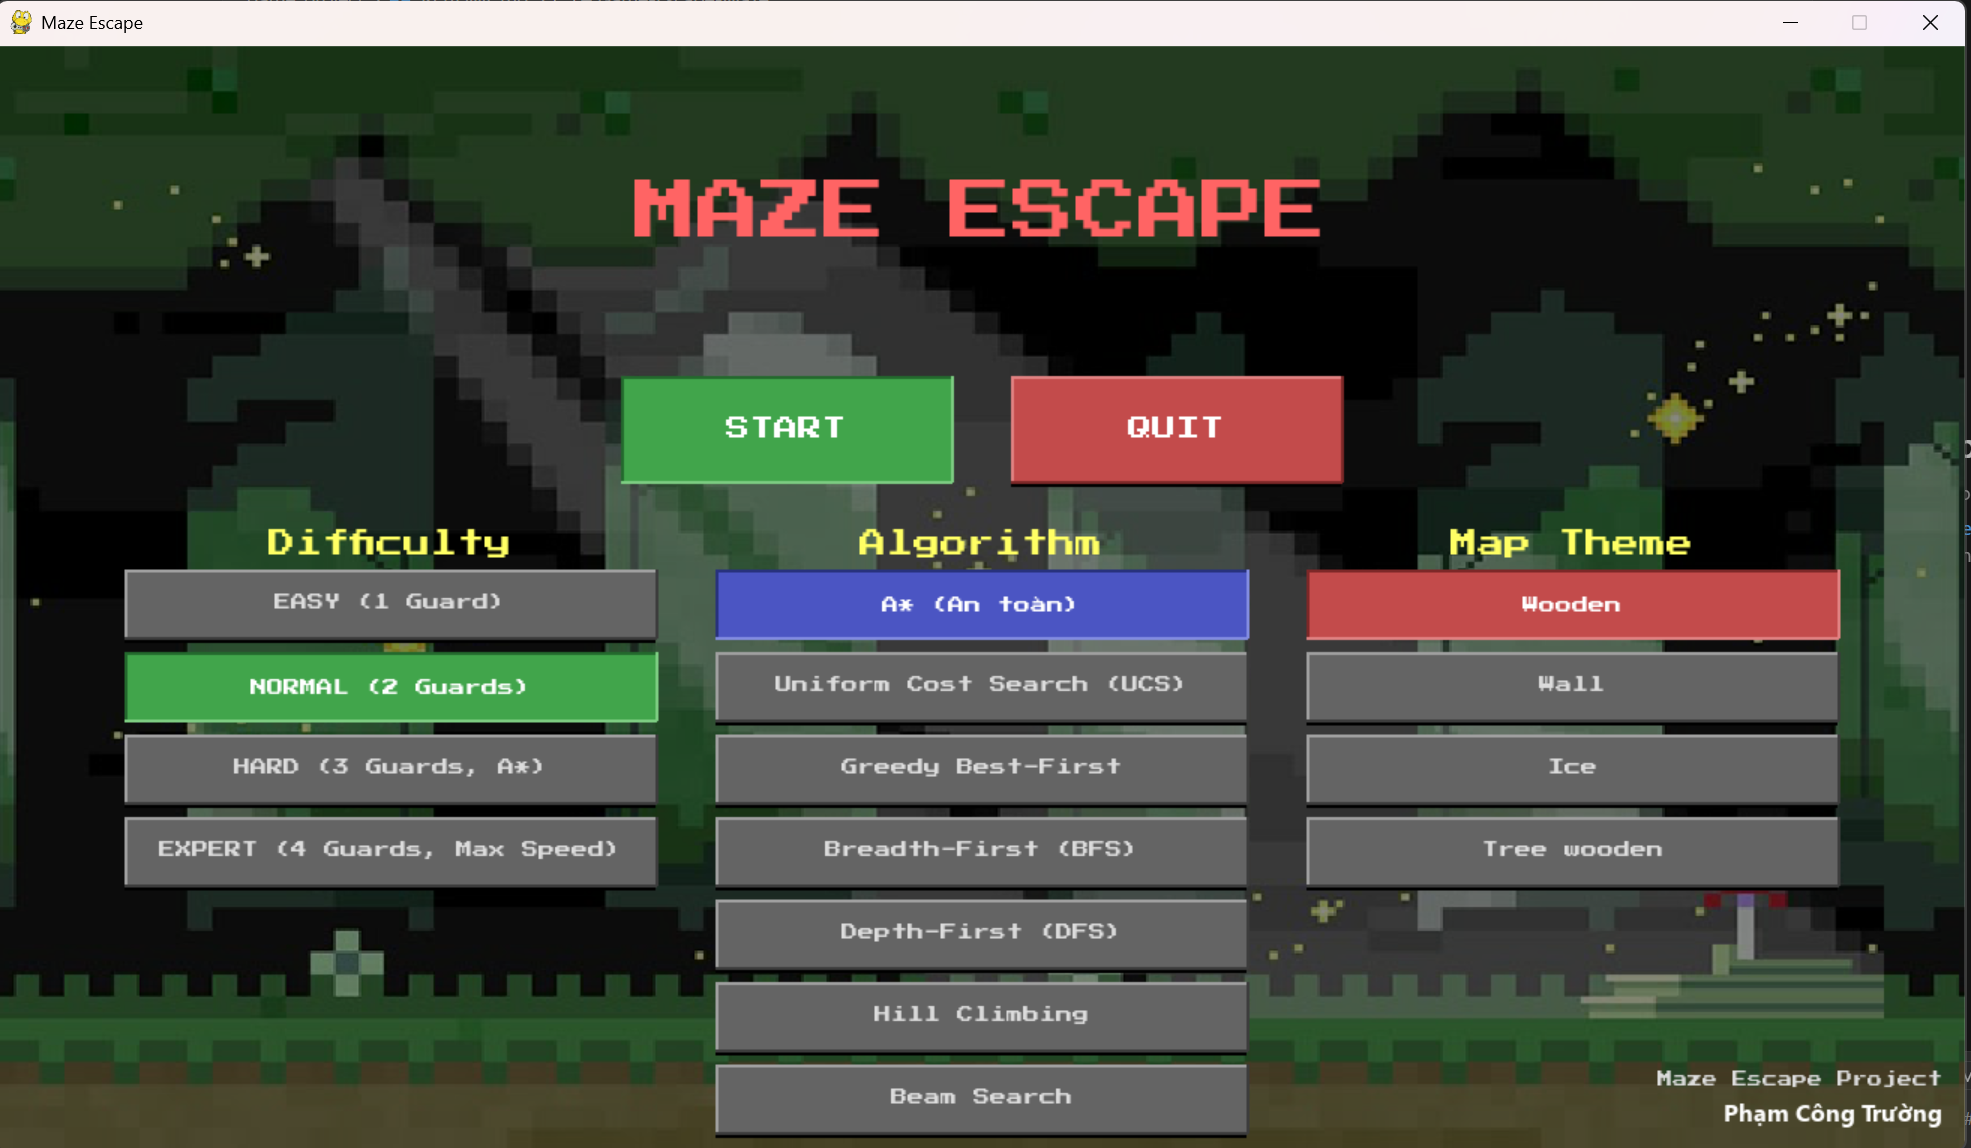
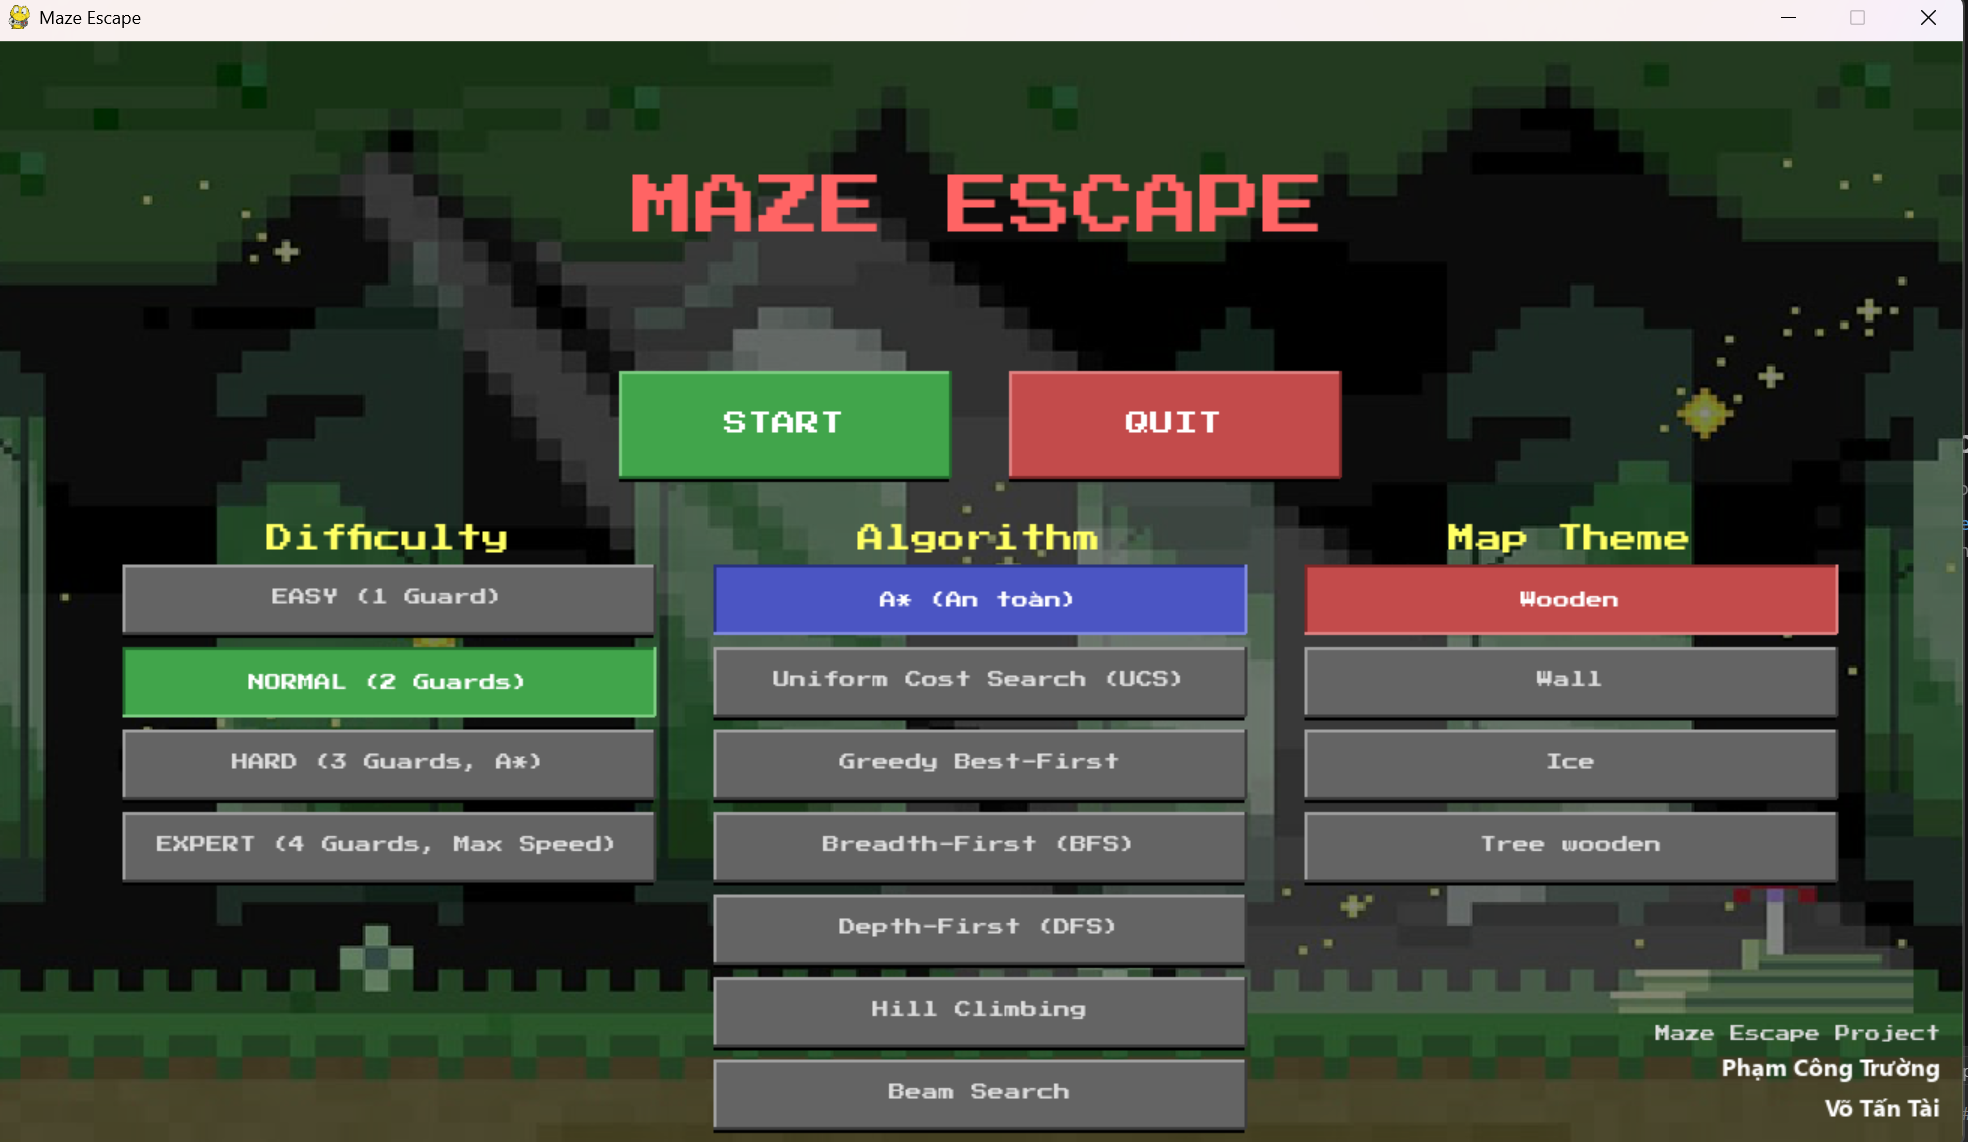
update

diff --git a/game/render/menu.py b/game/render/menu.py
@@ -29,7 +29,7 @@ class Menu:
 
         # --- DỮ LIỆU CHO MENU ---
         self.options = [
-            config.DIFFICULTY_LEVELS, # <<< Sửa lại như thế này
+            config.DIFFICULTY_LEVELS,
             list(PATHFINDING_ALGORITHMS.keys()),
             config.MAP_THEMES
         ]
@@ -85,17 +85,6 @@ class Menu:
             pygame.draw.line(self.screen, dark_edge_color, rect.topright, rect.bottomright, 2)
             text_offset = 0
         text_surf = font.render(text, True, text_color); text_rect = text_surf.get_rect(center=rect.center); self.screen.blit(text_surf, text_rect.move(0, text_offset))
-
-    def _draw_credit_banner(self):
-        project_title = "Maze Escape Project"; members = ["Phạm Công Trường"]; margin = 15
-        line_height = self.font_credit_member.get_height() + 5; 
-        title_surf = self.font_credit_title.render(project_title, True, (220, 220, 220))
-        title_rect = title_surf.get_rect(bottomright=(self.width - margin, self.height - margin - (len(members) * line_height))); 
-        self.screen.blit(title_surf, title_rect)
-        for i, member_text in enumerate(members):
-            member_surf = self.font_credit_member.render(member_text, True, (255, 255, 255))
-            y_position = self.height - margin - ((len(members) - 1 - i) * line_height)
-            member_rect = member_surf.get_rect(bottomright=(self.width - margin, y_position)); self.screen.blit(member_surf, member_rect)
 
     def handle_input(self, event):
         if event.type == pygame.MOUSEBUTTONDOWN and event.button == 1:
@@ -171,7 +160,7 @@ class Menu:
                 rect = pygame.Rect(0, 0, button_width, button_height); rect.center = (col_xs[0], y_pos)
                 is_selected = self.current_difficulty == level
                 self._draw_pixel_button(rect, config.DIFFICULTY_SETTINGS[level]["DISPLAY_NAME"], self.font_medium, 
-                                      color_sets[0] if is_selected else default_colors, is_selected, rect.collidepoint(mouse_pos))
+                                        color_sets[0] if is_selected else default_colors, is_selected, rect.collidepoint(mouse_pos))
                 self.buttons[level] = rect
                 
             # Cột 2: Algorithm
@@ -181,7 +170,7 @@ class Menu:
                 rect.center = (col_xs[1], y_pos)
                 is_selected = self.current_algorithm == algo
                 self._draw_pixel_button(rect, algo, self.font_medium,
-                                      color_sets[1] if is_selected else default_colors, is_selected, rect.collidepoint(mouse_pos))
+                                        color_sets[1] if is_selected else default_colors, is_selected, rect.collidepoint(mouse_pos))
                 self.algo_buttons[algo] = rect
                 
             # Cột 3: Map Theme
@@ -190,7 +179,5 @@ class Menu:
                 rect = pygame.Rect(0, 0, button_width, button_height); rect.center = (col_xs[2], y_pos)
                 is_selected = self.current_map_index == theme_index
                 self._draw_pixel_button(rect, self.options[2][theme_index].replace("_", " ").capitalize(), self.font_medium,
-                                      color_sets[2] if is_selected else default_colors, is_selected, rect.collidepoint(mouse_pos))
+                                        color_sets[2] if is_selected else default_colors, is_selected, rect.collidepoint(mouse_pos))
                 self.map_buttons[theme_index] = rect
-        
-        self._draw_credit_banner()

diff --git a/README.md b/README.md
@@ -2,7 +2,7 @@
 
 Một project game 2D được xây dựng bằng Python và Pygame, không chỉ là một trò chơi giải đố mê cung mà còn là một công cụ mạnh mẽ để trực quan hóa, so sánh và tìm hiểu về các thuật toán tìm đường phổ biến trong lĩnh vực Trí tuệ nhân tạo.
 
-![Giao diện Menu](Menu.png)
+![Giao diện Menu](Menu.png))
 *(Menu chính của game)*
 
 ---
